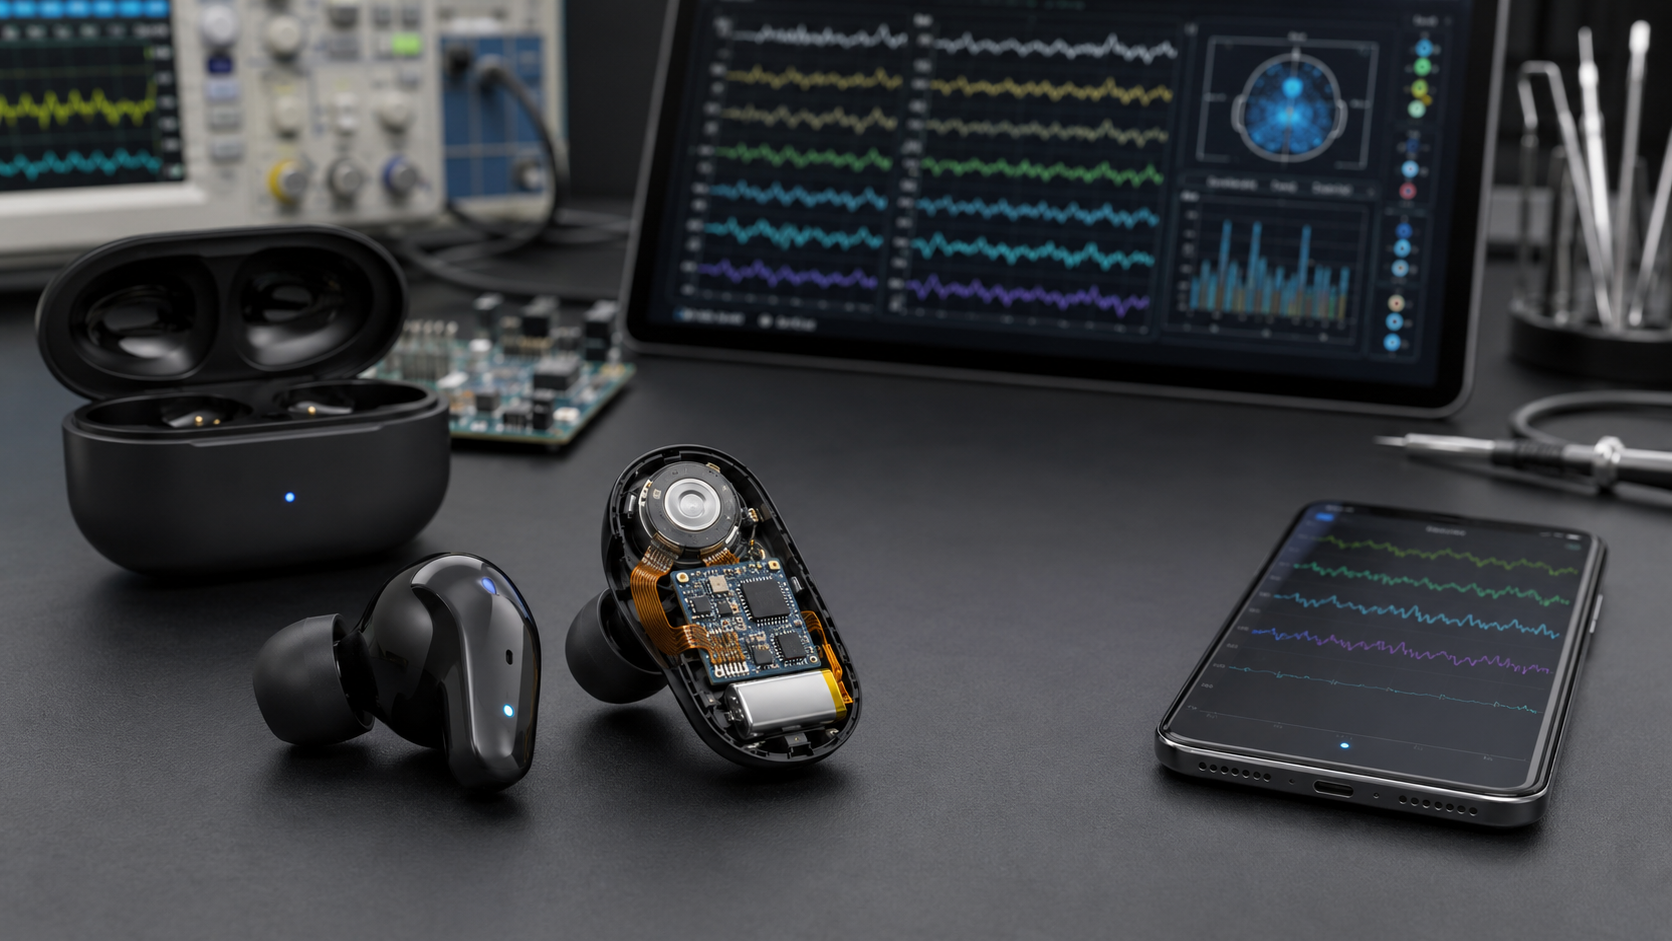
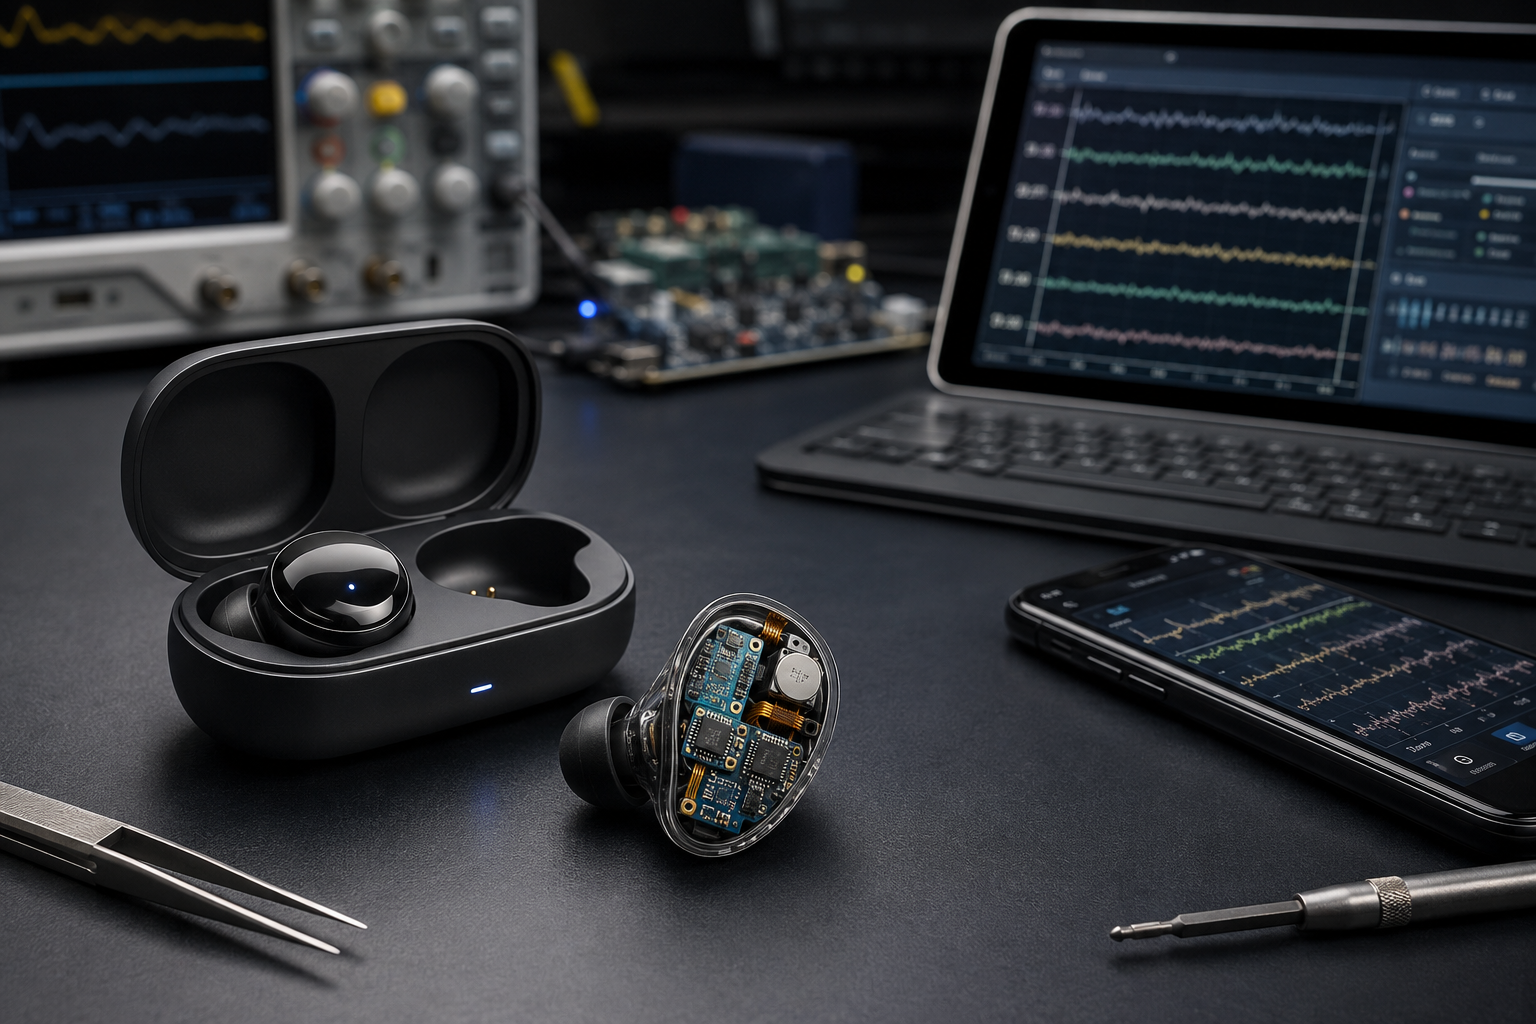
Added Gmail

diff --git a/components/projects.tsx b/components/projects.tsx
@@ -53,7 +53,7 @@ const projects: Project[] = [
     technologies: ["Raspberry Pi", "Python", "Computer Vision", "Image Processing", "Robotics", "Machine Learning"],
     image: "/images/projects/skin-tumor-robot.png",
     link: "https://github.com/AliHassan-019/Robotic-Arm-Based-Skin-Tumor-Detection-Intervention-System-Using-Computer-Vision",
-    category: "Medical"
+    categories: ["Medical", "Robotics", "AI"]
   },
   {
     title: "Bionic Head and Facial Recognition",
@@ -61,7 +61,7 @@ const projects: Project[] = [
     technologies: ["Embedded Systems", "AI", "Sensors", "Computer Vision"],
     image: "/images/projects/bhfr3.png",
     link: "https://github.com/AliHassan-019/BHFR3-Bionic-Head-and-Facial-Recognition",
-    categories: ["Robotics"]
+    categories: ["Robotics", "AI"]
   },
   {
     title: "True Wireless Stereo (TWS) Earbuds",
@@ -102,16 +102,13 @@ const projects: Project[] = [
   technologies: [
     "ROS 2",
     "Raspberry Pi",
-    "Arduino Mega",
-    "Python",
     "OpenCV",
     "ArUco",
     "MPU-9250",
     "Kalman Filter",
     "Inverse Kinematics",
-    "PySide6",
     "Embedded C",
-    "Motor Control"
+    "PID"
   ],
   image: "/images/projects/stewart-control.png",
   link: "https://github.com/AliHassan-019/Autonomous-Coupling/tree/REM/AliHassan",
@@ -131,12 +128,11 @@ const projects: Project[] = [
     "BLE",
     "EEG Signal Acquisition",
     "Audio Processing",
-    "Firmware Development",
     "Power Management"
   ],
   image: "/images/projects/eeg-wireless-earbuds.png",
   link: "https://github.com/AliHassan-019/EEG-Integrated-Wireless-Earbuds",
-  category: "Medical"
+    categories: ["Medical", "IoT"]
 },
 ];
 
@@ -149,6 +145,9 @@ const categories: string[] = [
   ),
 ];
 
+const getProjectCategories = (project: Project) =>
+  project.categories ?? (project.category ? [project.category] : []);
+
 export default function Projects() {
   const [selectedCategory, setSelectedCategory] = useState<string>("All");
   const [hoveredProject, setHoveredProject] = useState<string | null>(null);
@@ -156,10 +155,8 @@ export default function Projects() {
   const filteredProjects =
     selectedCategory === "All"
       ? projects
-      : projects.filter(
-          project =>
-            project.categories?.includes(selectedCategory) ||
-            project.category === selectedCategory
+      : projects.filter(project =>
+          getProjectCategories(project).includes(selectedCategory)
         );
 
   return (
@@ -254,6 +251,18 @@ export default function Projects() {
                       {project.description}
                     </p>
                     <div className="flex flex-wrap gap-2 mb-4">
+                      {getProjectCategories(project).map((cat) => (
+                        <motion.span
+                          key={cat}
+                          className="px-3 py-1 bg-primary/10 text-primary rounded-full text-sm font-medium"
+                          whileHover={{ scale: 1.05 }}
+                          aria-label={`Category: ${cat}`}
+                        >
+                          {cat}
+                        </motion.span>
+                      ))}
+                    </div>
+                    <div className="flex flex-wrap gap-2 mb-4">
                       {project.technologies.map((tech) => (
                         <motion.span
                           key={tech}
@@ -268,6 +277,8 @@ export default function Projects() {
                     <div className="mt-auto pt-2">
                       <motion.a
                         href={project.link}
+                        target="_blank"
+                        rel="noopener noreferrer"
                         className="inline-flex items-center text-primary hover:text-primary-dark transition-colors duration-200"
                         whileHover={{ x: 5 }}
                         aria-label={`View project: ${project.title}`}

diff --git a/components/contact.tsx b/components/contact.tsx
@@ -165,7 +165,17 @@ export default function Contact() {
                 <h3 className="text-2xl font-semibold text-gray-900 dark:text-white mb-6">
                   Connect With Me
                 </h3>
-                <div className="flex space-x-4">
+                <div className="flex flex-wrap gap-4">
+                  <motion.a
+                    href="mailto:alihassan.pk019@gmail.com"
+                    target="_blank"
+                    rel="noopener noreferrer"
+                    className="text-gray-600 dark:text-gray-400 hover:text-primary transition-colors duration-200"
+                    whileHover={{ scale: 1.05 }}
+                    whileTap={{ scale: 0.95 }}
+                  >
+                    Gmail
+                  </motion.a>
                   <motion.a
                     href="https://www.linkedin.com/in/alihassan019"
                     target="_blank"
